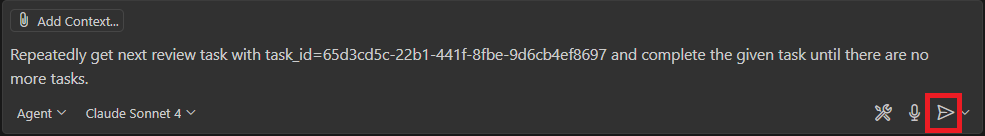
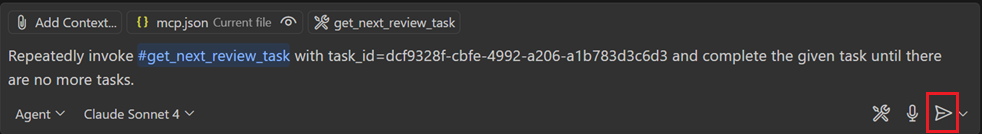
update prompts

diff --git a/reviewer.py b/reviewer.py
@@ -114,7 +114,7 @@ def create_review_task(files: list[FileToReview]) -> str:
 
         idx += 1
     
-    return f"Repeatedly get next review task with task_id={task_id} and complete the given task until there are no more tasks."
+    return f"Repeatedly invoke #{get_next_review_task.__name__} with task_id={task_id} and complete the given task until there are no more tasks."
 
    
 def get_next_review_task(task_id: str) -> str:
